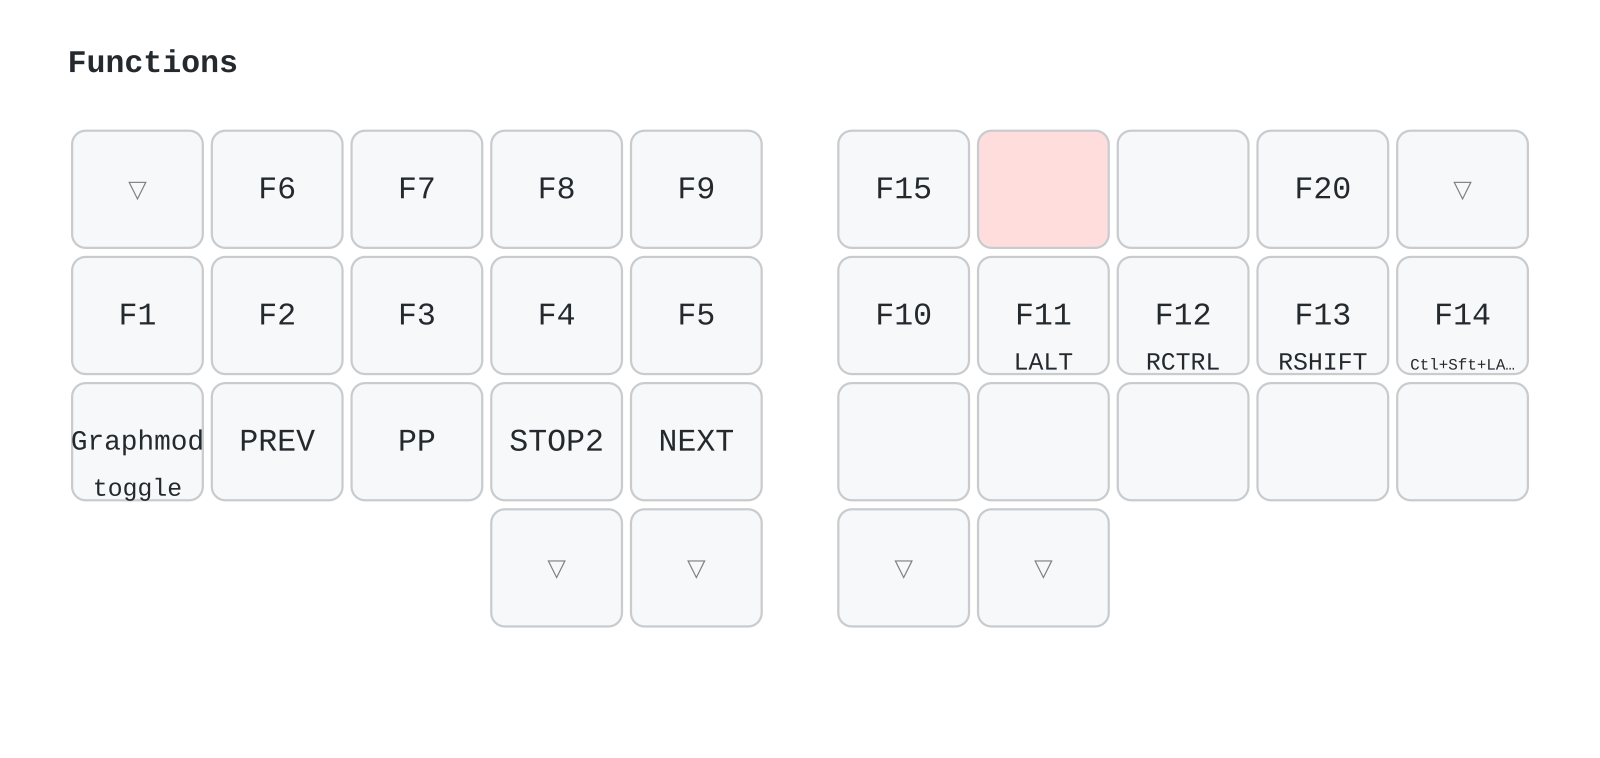
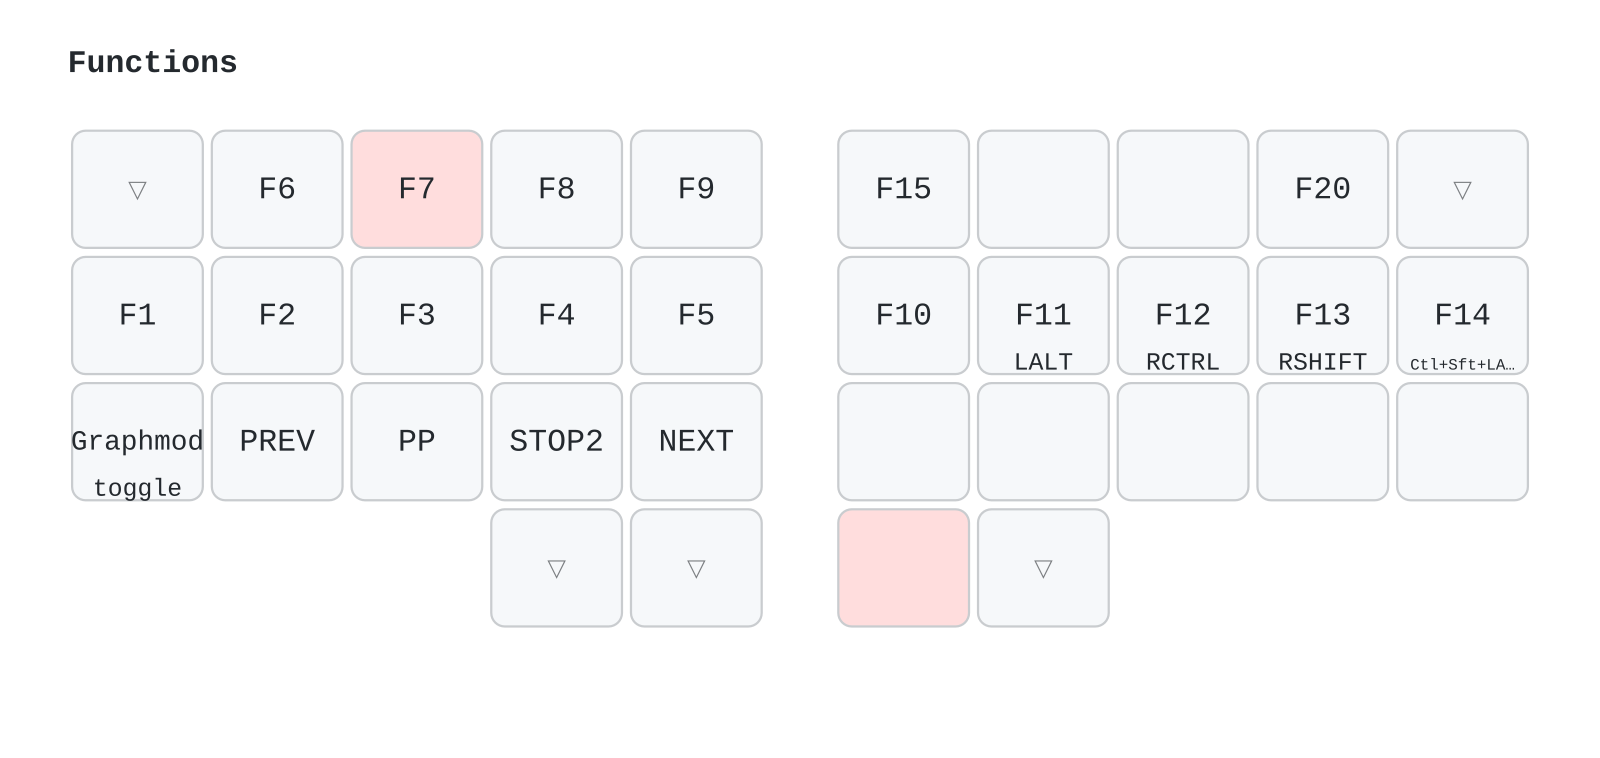
Adaptive swap [L, C, F]
Right after L, C and F trade places. AS_C gains an L rule and the new
AS_F wraps pos 6's &lt L_FUNC F, so F still holds Functions unswapped.
sync-oryx.py compares AS_F as lt 8 F; keymap-drawer labels both keys.
The Functions image now marks the Navigate path as held, since
keymap-drawer can't see the layer hold inside AS_F.

Changed region(s): [[0.5, 0.6675, 0.625, 0.8496], [0.5938, 0.1517, 0.7188, 0.3338], [0.2188, 0.1517, 0.3125, 0.3338]]

diff --git a/tools/sync-oryx.py b/tools/sync-oryx.py
@@ -284,6 +284,7 @@ EQUIVALENT = {
     # Adaptive swaps: compare as the key's unswapped binding.
     "AS_E": "mt LSHIFT E", "AS_H": "mt LALT H",
     "AS_O": "kp O", "AS_G": "kp G", "AS_L": "kp L", "AS_D": "kp D", "AS_C": "kp C",
+    "AS_F": "lt 8 F",
     # One-way adaptive keys on Alpha+: compare as the default binding.
     "AK_X": "mt LCTRL X", "AK_Z": "kp Z", "AK_S": "mt LSHIFT S",
 }

diff --git a/CLAUDE.md b/CLAUDE.md
@@ -101,9 +101,9 @@ overrides near the top of `kibard.keymap`; the two numbers are
 
 `AS_*` behaviors in `kibard.keymap` implement adaptive swaps `[X, Y, Z]`: right
 after X, keys Y and Z trade places (rules: `[U, E, O]`, `[F, G, L]`, `[S, D, C]`,
-`[K, E, H]`). Each is a `zmk,behavior-adaptive-key` (urob's `zmk-adaptive-key`
+`[K, E, H]`, `[L, C, F]`). Each is a `zmk,behavior-adaptive-key` (urob's `zmk-adaptive-key`
 module) on Y and on Z, pointing at each other. They have no timeout. Swapped
-output is a plain `&kp` with no home-row-mod hold.
+output is a plain `&kp` with no home-row-mod or layer hold.
 
 `AK_*` are one-way adaptive keys on Alpha+ (layer 5): `JX → JU`, `JZ → JO`,
 `ÅS → ÅR`. J, Å, X and Z live only on Alpha+, so these finish common bigrams
